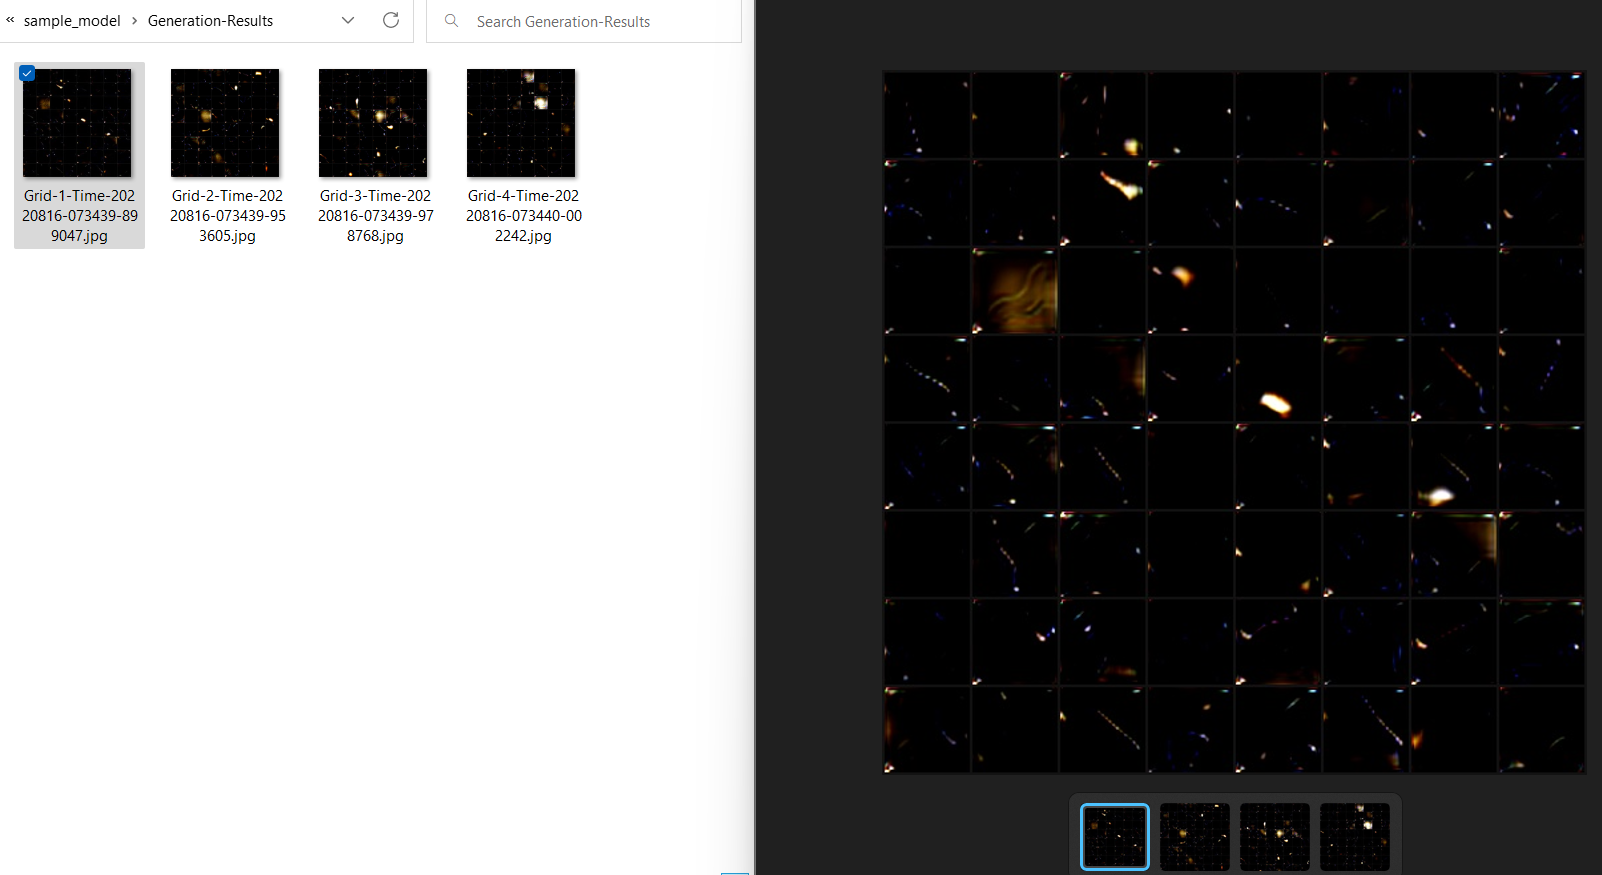
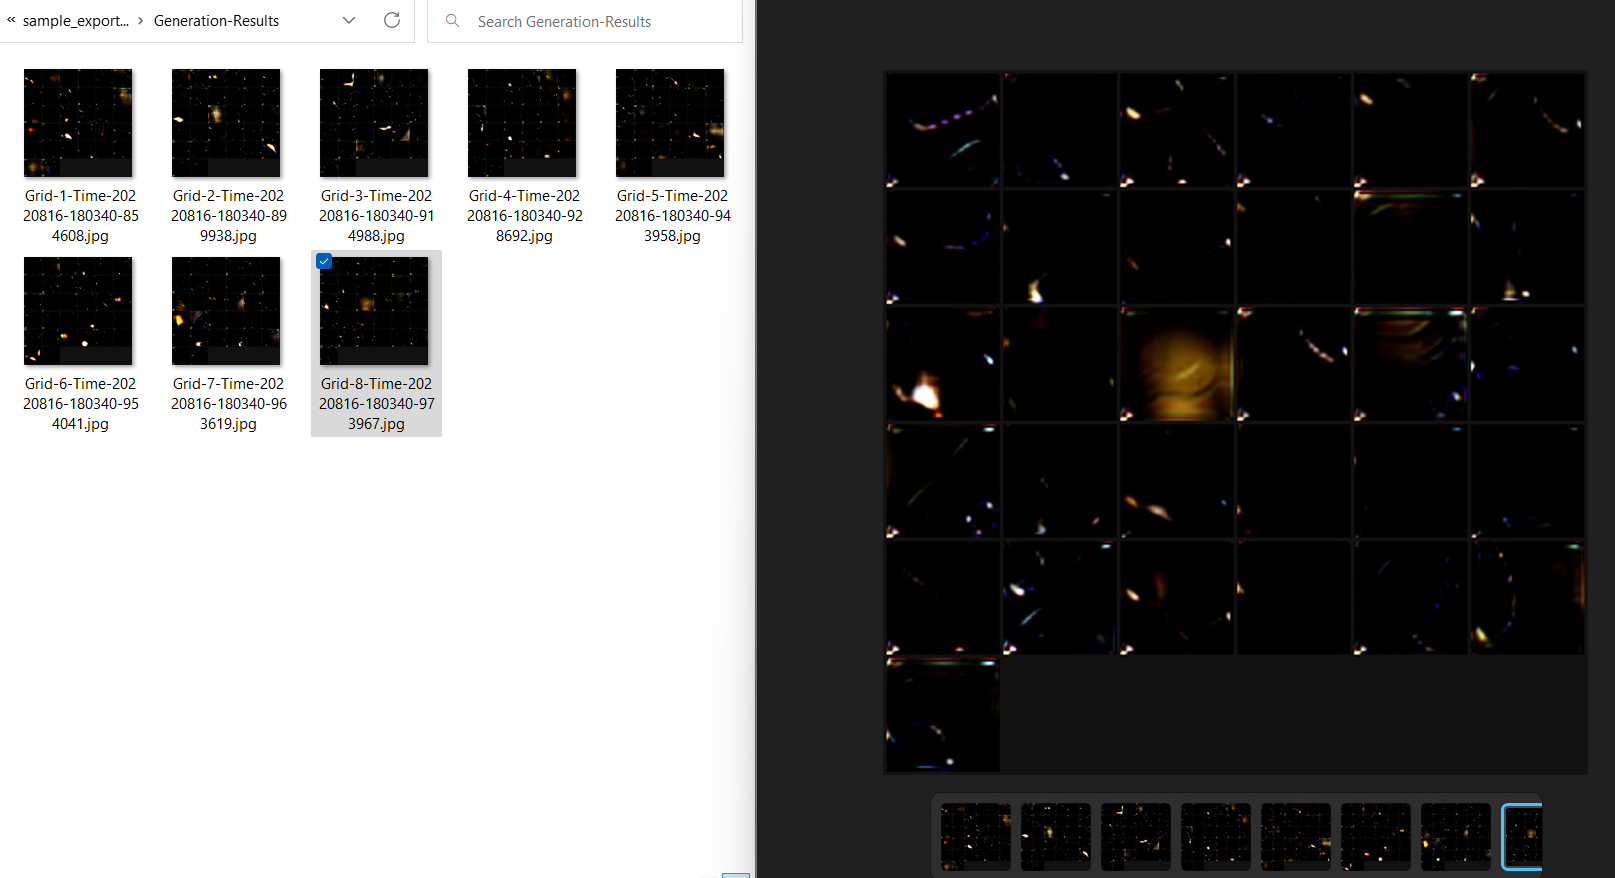
Fixed imagesToGrids

diff --git a/ktutils/src/main/kotlin/lyc/ktutils/libs/djlutils/classes/GenProc.kt b/ktutils/src/main/kotlin/lyc/ktutils/libs/djlutils/classes/GenProc.kt
@@ -443,31 +443,33 @@ class GenProc(
 
     /** Converts some images to a grid.
      * @param images: some images
+     * @param imagesPerGrid: image count per grid
      * @param gridPadding: a padding
      * @return result: the result
      */
-    private fun imagesToGrid(images: ArrayList<NDArray>, gridPadding: Int): NDArray {
-        val imageCount = images.size
-        val imageCountFloat = imageCount.toFloat()
-        val imagesPerRow = ceil(imageCountFloat.pow(0.5f)).toInt()
-        val rowCount = imagesPerRow
+    private fun imagesToGrid(images: ArrayList<NDArray>, imagesPerGrid: Int, gridPadding: Int): NDArray {
+        val imagesPerGridFloat = imagesPerGrid.toFloat()
+        val xImageCount = ceil(imagesPerGridFloat.pow(0.5f)).toInt()
+        val yImageCount = xImageCount
 
-        val gridRes = gridPadding + imagesPerRow * (imageRes + gridPadding)
+        val gridRes = gridPadding + xImageCount * (imageRes + gridPadding)
         val gridShape = Shape(imageChannelCount.toLong(), gridRes.toLong(), gridRes.toLong())
         val gridPaddingValue = -0.65f
 
-        val result = DJLDefaults.cpuNDManager.full(gridShape, gridPaddingValue, DJLDefaults.dataType)
+        val imageCount = images.size
         var imageIdx = 0
+        val result = DJLDefaults.cpuNDManager.full(gridShape, gridPaddingValue, DJLDefaults.dataType)
 
-        for (rowIdx in 0 until rowCount) {
-            for (colIdx in 0 until imagesPerRow) {
+        for (yImageIdx in 0 until yImageCount) {
+            for (xImageIdx in 0 until xImageCount) {
                 if (imageIdx < imageCount) {
-                    val xStart = gridPadding + rowIdx * (imageRes + gridPadding)
+                    val xStart = gridPadding + xImageIdx * (imageRes + gridPadding)
                     val xEnd = xStart + imageRes
 
-                    val yStart = gridPadding + colIdx * (imageRes + gridPadding)
+                    val yStart = gridPadding + yImageIdx * (imageRes + gridPadding)
                     val yEnd = yStart + imageRes
 
+                    // Paste the image into the grid in the axis order CHW (color, height, width)
                     val imageGridIndices = NDIndex(":, $yStart:$yEnd, $xStart:$xEnd")
                     val image = images[imageIdx]
                     result.set(imageGridIndices, image.duplicate())
@@ -486,13 +488,17 @@ class GenProc(
 
         for (gridIdx in 0 until gridCount) {
             val startImageIdx = gridIdx * gridModeImagesPerGrid
-            val endImageIdx = (gridIdx + 1) * gridModeImagesPerGrid
-            val imageIdxRange = startImageIdx until endImageIdx
+            var endImageIdx = (gridIdx + 1) * gridModeImagesPerGrid
 
+            if (endImageIdx >= imageCount) {
+                endImageIdx = imageCount
+            } // end if
+
+            val imageIdxRange = startImageIdx until endImageIdx
             val imagesSlice = images.slice(imageIdxRange)
             val imagesSliceArrayList = ArrayList(imagesSlice)
 
-            val grid = imagesToGrid(imagesSliceArrayList, gridModePadding)
+            val grid = imagesToGrid(imagesSliceArrayList, gridModeImagesPerGrid, gridModePadding)
             grids.add(grid)
         } // end for
 
@@ -533,6 +539,7 @@ class GenProc(
         converted = converted.mul(255)
         converted = converted.clip(0f, 255f)
 
+        // Assume that the ndArray image has the axis order CHW (color, height, width)
         val width = shape[2].toInt()
         val height = shape[1].toInt()
         val pixelCount = width * height
